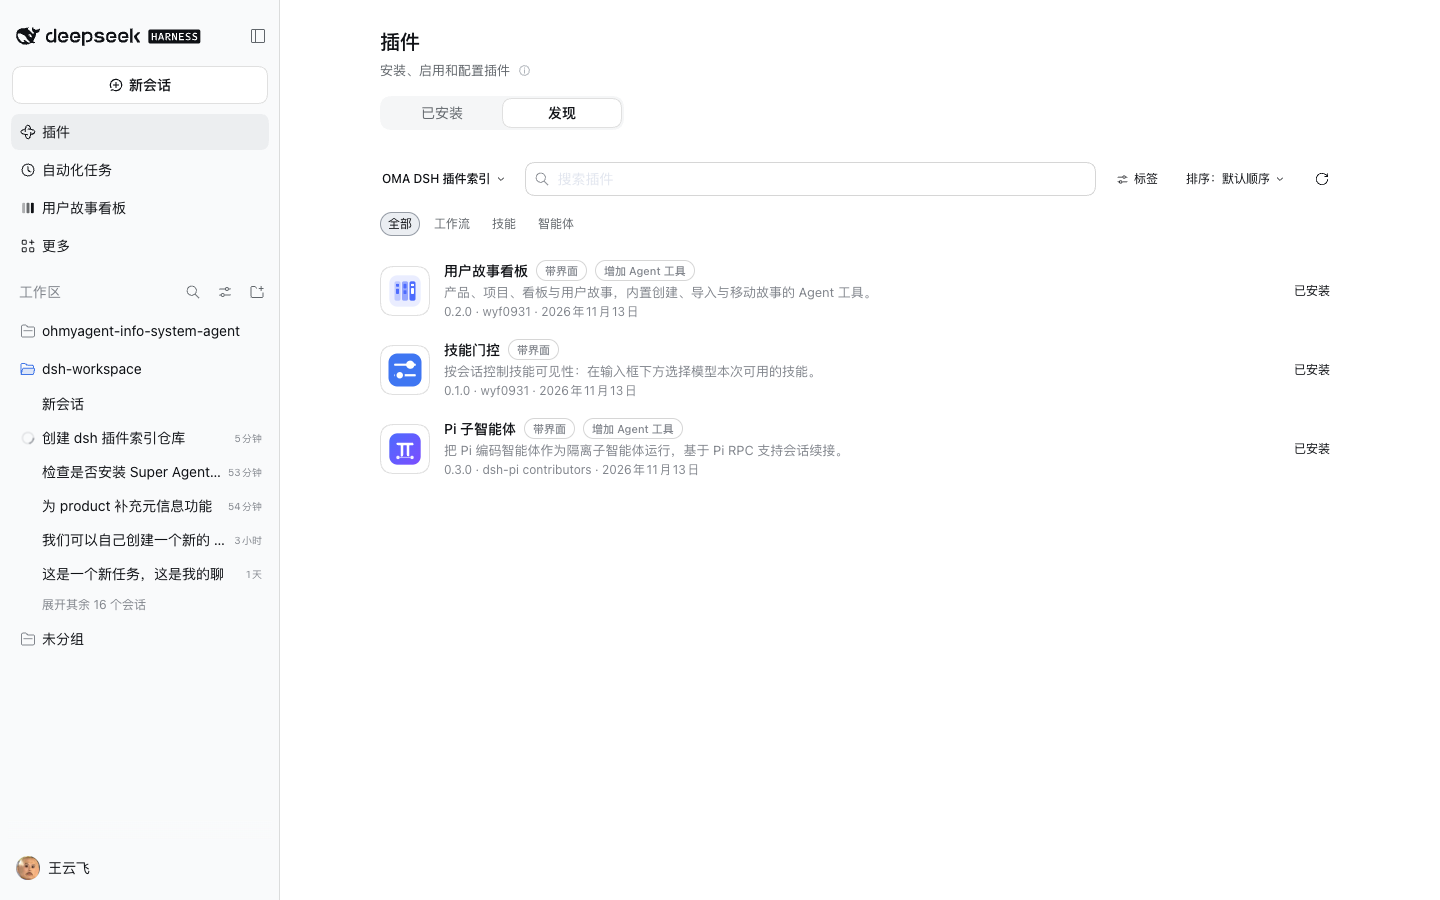
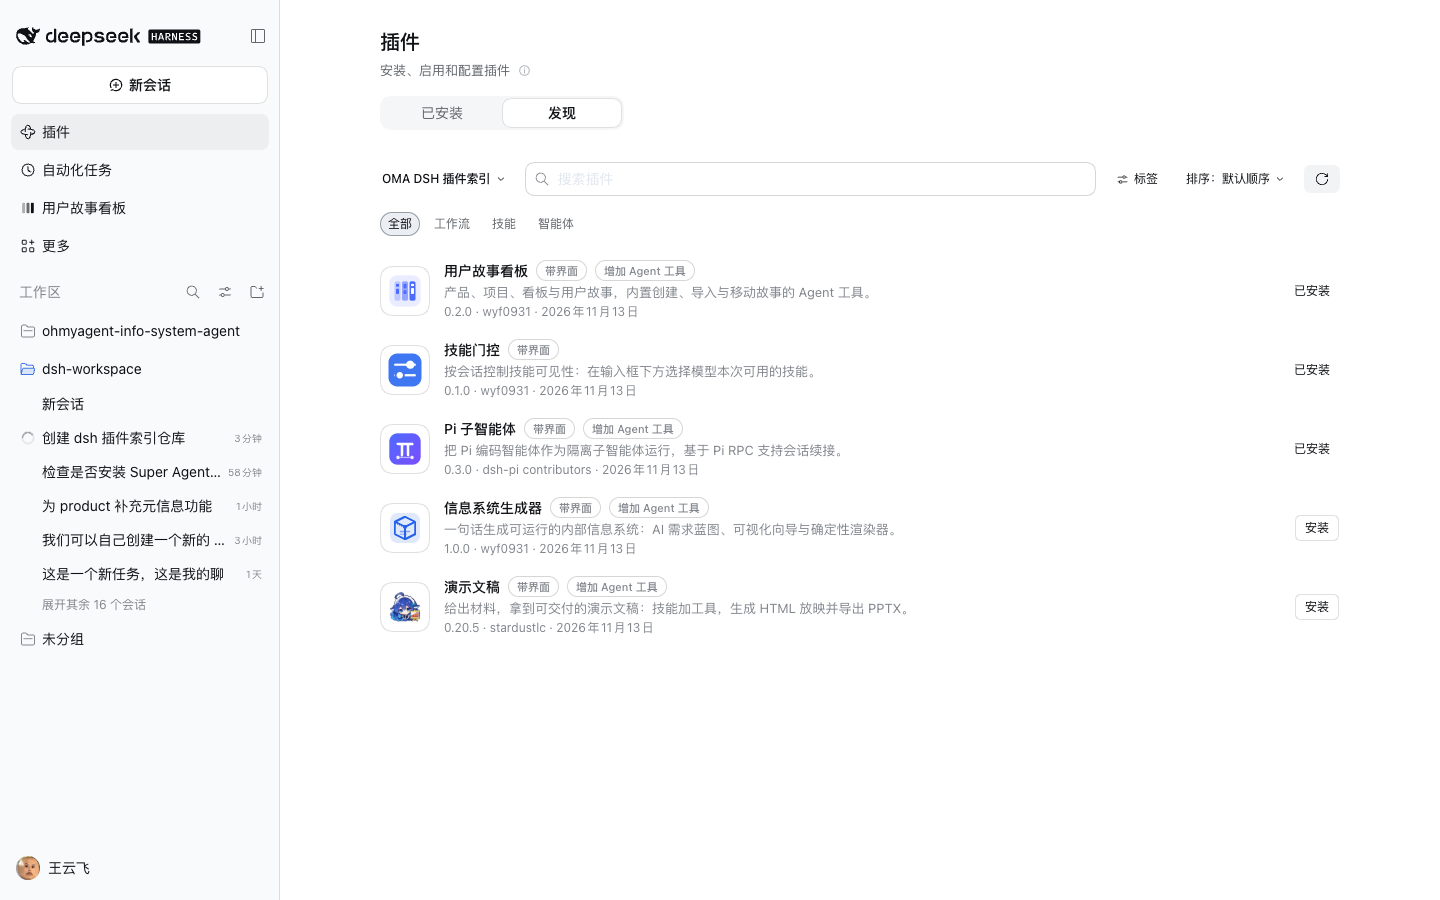
docs: refresh Discover screenshot for all five plugins

Changed region(s): [[0.25, 0.56, 0.625, 0.7156], [0.9062, 0.6533, 0.9375, 0.6844], [0.9062, 0.56, 0.9375, 0.5911]]

diff --git a/README.md b/README.md
@@ -6,7 +6,7 @@ A plugin index for **DeepSeek Harness**: one JSON file that lists OMA's custom b
 
 The index is self-contained. Every plugin's source is vendored under [`plugins/`](plugins/), and every version is pinned to a commit of this repository, so installing from the index needs no npm publishing and gets exactly the code this repository published.
 
-![Discover listing the three OMA plugins](docs/discover.png)
+![Discover listing the OMA plugins](docs/discover.png)
 
 *Discover lists the indexed bundles; this profile already links some of them locally, so those cards read 已安装 (installed).*
 
@@ -35,6 +35,8 @@ A jsDelivr mirror is also available if the raw host is slow:
 ```
 https://cdn.jsdelivr.net/gh/wyf0931/oma-dsh-plugin-index@main/index.json
 ```
+
+jsDelivr caches `main`, so it can lag a few minutes behind a release. Purge it after publishing with `curl https://purge.jsdelivr.net/gh/wyf0931/oma-dsh-plugin-index@main/index.json`, or use the raw URL when you need the newest index.
 
 Discover now lists the plugins above. Pick an entry to read its full description, choose a version, and install it.
 
@@ -74,7 +76,7 @@ npm install          # once, for the index validator
 npm run build -- --commit "$(git rev-parse HEAD)"
 ```
 
-5. Commit `index.json` and push.
+5. Commit `index.json` and push, then purge the jsDelivr mirror if you publish one.
 
 The two-commit flow is intentional: the index cannot pin the commit that contains the index itself. The generated `index.json` therefore points at the commit that contains the plugin code, and the following commit only carries the index.
 

diff --git a/README.zh.md b/README.zh.md
@@ -6,7 +6,7 @@
 
 索引是自包含的：每个插件的源码都放在本仓库的 [`plugins/`](plugins/) 下，每个版本都固定到本仓库的一个提交。因此安装不依赖 npm 发布，用户装到的就是本仓库发布的那份代码。
 
-![发现页列出 OMA 的三个插件](docs/discover.png)
+![发现页列出 OMA 的插件](docs/discover.png)
 
 *发现页会列出索引中的插件包；截图中的配置文件已经用本地链接安装了其中几个，所以对应卡片显示「已安装」。*
 
@@ -35,6 +35,8 @@ https://raw.githubusercontent.com/wyf0931/oma-dsh-plugin-index/main/index.json
 ```
 https://cdn.jsdelivr.net/gh/wyf0931/oma-dsh-plugin-index@main/index.json
 ```
+
+jsDelivr 会缓存 `main`，发布后可能滞后几分钟。发布后可以执行 `curl https://purge.jsdelivr.net/gh/wyf0931/oma-dsh-plugin-index@main/index.json` 刷新缓存；需要最新索引时直接用 raw 地址。
 
 添加后，发现页就会列出上面的插件。点开条目可以看完整介绍、选择版本并安装。
 
@@ -74,7 +76,7 @@ npm install          # 首次运行，安装索引校验器
 npm run build -- --commit "$(git rev-parse HEAD)"
 ```
 
-5. 提交 `index.json` 并推送。
+5. 提交 `index.json` 并推送；如果使用 jsDelivr 镜像，再执行一次缓存刷新。
 
 两次提交是刻意设计的：索引无法固定到包含索引自身的提交。因此生成的 `index.json` 指向包含插件代码的那个提交，后一次提交只携带索引。
 
